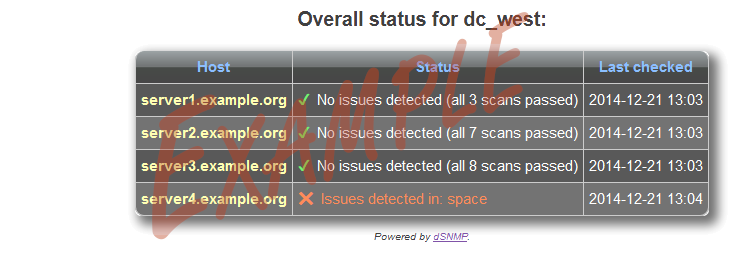
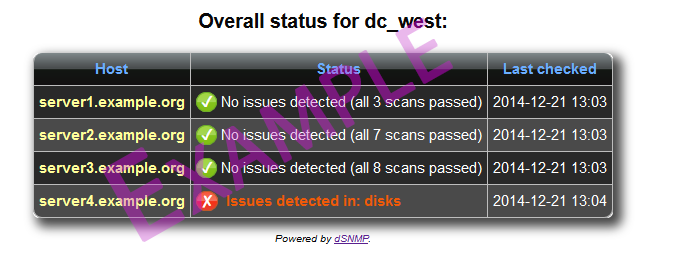
Update CSS and example output

diff --git a/lib/templates.py b/lib/templates.py
@@ -178,6 +178,34 @@ html_output_template = """
       color: #FFF;
       
    }
+   .checkbox_good {
+        border: 1px solid #6A2;
+        border-radius: 10px;
+        background: linear-gradient(to bottom, #9dd53a 0%%,#a1d54f 50%%,#80c217 51%%,#7cbc0a 100%%);
+        color: #FFF;
+        font-weight: bold;
+        padding-left: 4px;
+        padding-right: 4px;
+   }
+   .checkbox_good:before {
+    content: "\\2713"
+   }
+   .checkbox_bad {
+        border: 1px solid #B52;
+        border-radius: 10px;
+        background: linear-gradient(to bottom, #f85032 0%%,#f16f5c 50%%,#f6290c 51%%,#f02f17 71%%,#e73827 100%%);
+        color: #FFF;
+        font-weight: bold;
+        padding-left: 4px;
+        padding-right: 4px;
+        margin-right: 8px;
+   }
+   .checkbox_bad:before {
+    content: "\\2717"
+   }
+   .bad {
+    color: #E50; font-weight: bold;
+   }
    body {
     text-align: center;
    }

diff --git a/lib/globalanalyzer.py b/lib/globalanalyzer.py
@@ -161,8 +161,8 @@ def start_analysis(group, config, dry_run, settings):
             server,
             server,
             (
-                    ("<font color='#F62'><b>&#10060; &nbsp;</b>Issues detected in: %s</font>" % ", ".join(whatissues)) if sissues else
-                    ("<font color='#4E4'><b>&#10003; &nbsp;</b></font>No issues detected (all %u scans passed)" % scans)
+                    ("<span class='checkbox_bad'></span><span class='bad'> Issues detected in: %s</span>" % ", ".join(whatissues)) if sissues else
+                    ("<span class='checkbox_good'></span> No issues detected (all %u scans passed)" % scans)
             ),
             time.strftime("%Y-%m-%d %H:%M")
         )
